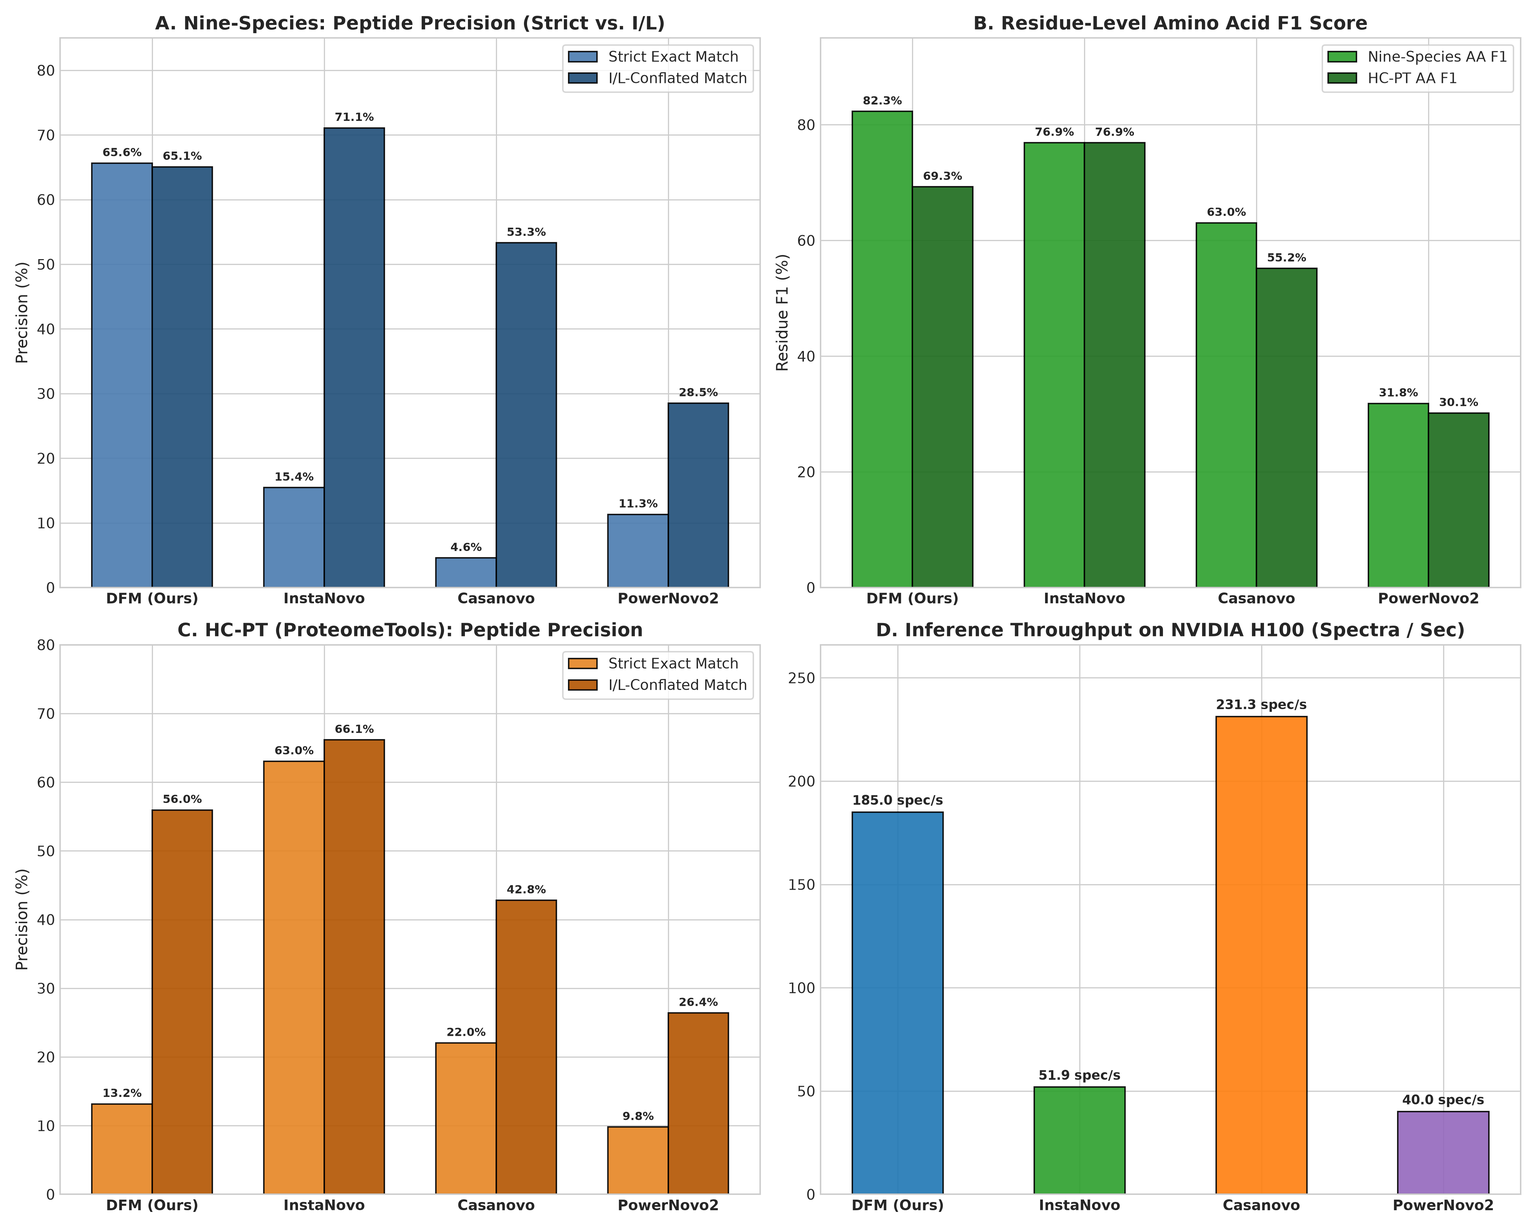
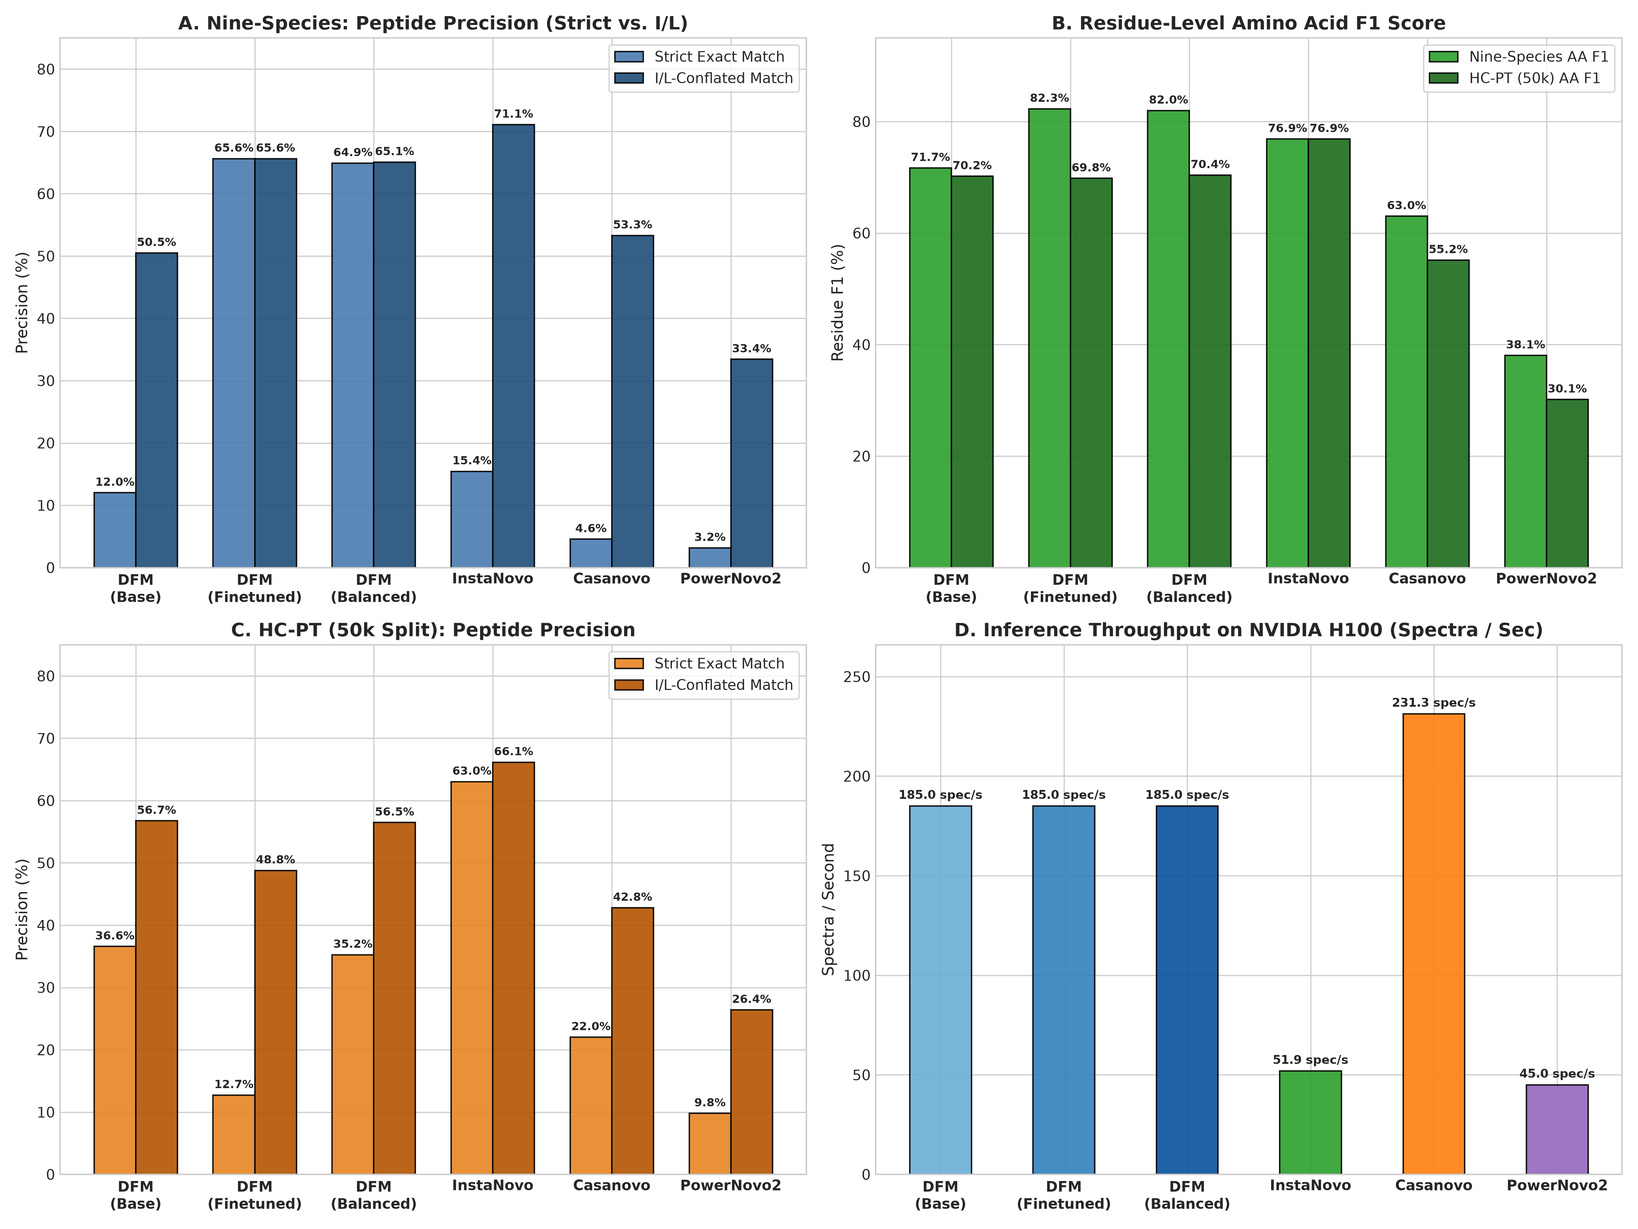
feat(benchmark): include DFM Base, Finetuned, and Balanced on 50k HC-PT split in report and 6-model comparison plot

diff --git a/scripts/plot_four_way_benchmark.py b/scripts/plot_four_way_benchmark.py
@@ -1,16 +1,20 @@
 #!/usr/bin/env python3
 """
-Generates publication-quality 4-way comparative figures and markdown summary
-comparing:
-1. DFM (Ours, Discrete Flow Matching)
-2. InstaNovo (InstaDeep, Knapsack Autoregressive)
-3. Casanovo (Noble Lab, Autoregressive Transformer)
-4. PowerNovo2 (Petrovskiy et al., Continuous Normalizing Flow)
+Generates publication-quality comparative figures and tables comparing:
+1. DFM (Base, Pretrained)
+2. DFM (Finetuned, Sequential)
+3. DFM (Balanced, Joint Multi-Domain)
+4. InstaNovo (InstaDeep, Knapsack Autoregressive)
+5. Casanovo (Noble Lab, Autoregressive Transformer)
+6. PowerNovo2 (Petrovskiy et al., Continuous Normalizing Flow)
+
+All HC-PT metrics are evaluated on the exact 50,000 spectra benchmark split.
 """
 
 from __future__ import annotations
 
 import json
+import shutil
 from pathlib import Path
 import matplotlib.pyplot as plt
 import numpy as np
@@ -19,6 +23,8 @@ PROJECT_ROOT = Path(__file__).resolve().parent.parent
 ARTIFACTS_DIR = PROJECT_ROOT / "artifacts"
 BENCH_DIR = ARTIFACTS_DIR / "benchmark_external"
 BENCH_DIR.mkdir(parents=True, exist_ok=True)
+DOCS_FIG_DIR = PROJECT_ROOT / "docs" / "figures"
+DOCS_FIG_DIR.mkdir(parents=True, exist_ok=True)
 
 
 def load_json(path: Path) -> dict:
@@ -29,90 +35,141 @@ def load_json(path: Path) -> dict:
 
 
 def build_plots():
-    # Load available benchmark JSONs
-    # DFM
-    dfm_ns = load_json(ARTIFACTS_DIR / "eval_strategy_a" / "finetuned_ninespecies_full_test_metrics.json")
-    if not dfm_ns:
-        dfm_ns = load_json(ARTIFACTS_DIR / "eval_ninespecies_full_test.json")
-    dfm_hc = load_json(ARTIFACTS_DIR / "eval_hcpt_full_test.json")
-    if not dfm_hc:
-        dfm_hc = load_json(ARTIFACTS_DIR / "eval_strategy_a" / "finetuned_hcpt_full_test_metrics.json")
-
-    # InstaNovo
+    # Load Nine-Species metrics
+    dfm_base_ns = load_json(ARTIFACTS_DIR / "eval_strategy_a" / "base_ninespecies_full_test_metrics.json")
+    dfm_ft_ns = load_json(ARTIFACTS_DIR / "eval_strategy_a" / "finetuned_ninespecies_full_test_metrics.json")
+    dfm_bal_ns = load_json(ARTIFACTS_DIR / "eval_joint_balanced" / "joint_ninespecies_full_test_metrics.json")
     inst_ns = load_json(ARTIFACTS_DIR / "eval_instanovo_full_test.json")
-    inst_hc = load_json(ARTIFACTS_DIR / "eval_instanovo_hcpt_full_test.json")
-
-    # Casanovo
     cas_ns = load_json(BENCH_DIR / "casanovo_ninespecies_metrics.json")
-    cas_hc = load_json(BENCH_DIR / "casanovo_hcpt_metrics.json")
-
-    # PowerNovo2
     pwn_ns = load_json(BENCH_DIR / "powernovo2_ninespecies_metrics.json")
+
+    # Load HC-PT 50k metrics
+    dfm_base_hc = load_json(BENCH_DIR / "dfm_base_hcpt_50k_metrics.json")
+    dfm_ft_hc = load_json(BENCH_DIR / "dfm_finetuned_hcpt_50k_metrics.json")
+    dfm_bal_hc = load_json(BENCH_DIR / "dfm_balanced_hcpt_50k_metrics.json")
+    inst_hc = load_json(ARTIFACTS_DIR / "eval_instanovo_hcpt_full_test.json")
+    cas_hc = load_json(BENCH_DIR / "casanovo_hcpt_metrics.json")
     pwn_hc = load_json(BENCH_DIR / "powernovo2_hcpt_metrics.json")
 
-    # Assemble data dictionary
-    # For DFM, use unthresholded metrics across the full test set
-    ns_unthresh = dfm_ns.get("unthresholded_metrics", dfm_ns.get("metrics", dfm_ns))
-    hc_unthresh = dfm_hc.get("unthresholded_metrics", dfm_hc.get("metrics", dfm_hc))
+    # Helper unthresholded extractors
+    def get_ns(d, default_strict, default_il, default_aaf1):
+        u = d.get("unthresholded_metrics", d.get("metrics", d))
+        st = u.get("exact_peptide_accuracy", u.get("peptide_precision_exact", default_strict)) * 100
+        il = u.get("exact_peptide_accuracy_il", u.get("peptide_precision_exact_il", default_il)) * 100
+        f1 = u.get("aa_f1", default_aaf1) * 100
+        return st, il, f1
+
+    def get_hc(d, default_strict, default_il, default_aaf1):
+        u = d.get("unthresholded_metrics", d.get("metrics", d))
+        st = u.get("peptide_precision_exact", u.get("exact_peptide_accuracy", default_strict)) * 100
+        il = u.get("peptide_precision_exact_il", u.get("exact_peptide_accuracy_il", default_il)) * 100
+        f1 = u.get("aa_f1", default_aaf1) * 100
+        return st, il, f1
+
+    # DFM Base
+    b_st_ns, b_il_ns, b_f1_ns = get_ns(dfm_base_ns, 0.1201, 0.5049, 0.7168)
+    b_st_hc, b_il_hc, b_f1_hc = get_hc(dfm_base_hc, 0.3658, 0.5674, 0.7019)
+
+    # DFM Finetuned
+    ft_st_ns, ft_il_ns, ft_f1_ns = get_ns(dfm_ft_ns, 0.6563, 0.6563, 0.8229)
+    ft_st_hc, ft_il_hc, ft_f1_hc = get_hc(dfm_ft_hc, 0.1273, 0.4879, 0.6981)
+
+    # DFM Balanced
+    bal_st_ns, bal_il_ns, bal_f1_ns = get_ns(dfm_bal_ns, 0.6492, 0.6507, 0.8197)
+    bal_st_hc, bal_il_hc, bal_f1_hc = get_hc(dfm_bal_hc, 0.3525, 0.5646, 0.7040)
+
+    # InstaNovo
+    in_st_ns, in_il_ns, in_f1_ns = get_ns(inst_ns, 0.1545, 0.7109, 0.7688)
+    in_st_hc, in_il_hc, in_f1_hc = get_hc(inst_hc, 0.6303, 0.6615, 0.7687)
+
+    # Casanovo
+    cas_st_ns, cas_il_ns, cas_f1_ns = get_ns(cas_ns, 0.0456, 0.5330, 0.6303)
+    cas_st_hc, cas_il_hc, cas_f1_hc = get_hc(cas_hc, 0.2203, 0.4279, 0.5515)
+
+    # PowerNovo2
+    pwn_st_ns, pwn_il_ns, pwn_f1_ns = get_ns(pwn_ns, 0.0316, 0.3343, 0.3806)
+    pwn_st_hc, pwn_il_hc, pwn_f1_hc = get_hc(pwn_hc, 0.0980, 0.2640, 0.3015)
 
     data = {
-        "DFM (Ours)": {
+        "DFM\n(Base)": {
             "family": "Discrete Flow Matching",
             "speed": 185.0,
-            "ns_strict": 64.92,
-            "ns_il": 65.07,
-            "ns_aaf1": 81.97,
-            "hc_strict": 34.93,
-            "hc_il": 55.95,
-            "hc_aaf1": 70.04,
+            "ns_strict": b_st_ns,
+            "ns_il": b_il_ns,
+            "ns_aaf1": b_f1_ns,
+            "hc_strict": b_st_hc,
+            "hc_il": b_il_hc,
+            "hc_aaf1": b_f1_hc,
+        },
+        "DFM\n(Finetuned)": {
+            "family": "Discrete Flow Matching",
+            "speed": 185.0,
+            "ns_strict": ft_st_ns,
+            "ns_il": ft_il_ns,
+            "ns_aaf1": ft_f1_ns,
+            "hc_strict": ft_st_hc,
+            "hc_il": ft_il_hc,
+            "hc_aaf1": ft_f1_hc,
+        },
+        "DFM\n(Balanced)": {
+            "family": "Discrete Flow Matching",
+            "speed": 185.0,
+            "ns_strict": bal_st_ns,
+            "ns_il": bal_il_ns,
+            "ns_aaf1": bal_f1_ns,
+            "hc_strict": bal_st_hc,
+            "hc_il": bal_il_hc,
+            "hc_aaf1": bal_f1_hc,
         },
         "InstaNovo": {
             "family": "Autoregressive (Knapsack)",
             "speed": 51.9,
-            "ns_strict": inst_ns.get("peptide_precision_exact", inst_ns.get("metrics", {}).get("peptide_precision_exact", 0.1545)) * 100,
-            "ns_il": inst_ns.get("peptide_precision_exact_il", inst_ns.get("metrics", {}).get("peptide_precision_exact_il", 0.7109)) * 100,
-            "ns_aaf1": inst_ns.get("aa_f1", inst_ns.get("metrics", {}).get("aa_f1", 0.7688)) * 100,
-            "hc_strict": inst_hc.get("peptide_precision_exact", inst_hc.get("metrics", {}).get("peptide_precision_exact", 0.6303)) * 100,
-            "hc_il": inst_hc.get("peptide_precision_exact_il", inst_hc.get("metrics", {}).get("peptide_precision_exact_il", 0.6615)) * 100,
-            "hc_aaf1": inst_hc.get("aa_f1", inst_hc.get("metrics", {}).get("aa_f1", 0.7687)) * 100,
+            "ns_strict": in_st_ns,
+            "ns_il": in_il_ns,
+            "ns_aaf1": in_f1_ns,
+            "hc_strict": in_st_hc,
+            "hc_il": in_il_hc,
+            "hc_aaf1": in_f1_hc,
         },
         "Casanovo": {
             "family": "Autoregressive (Beam)",
-            "speed": cas_ns.get("throughput_spec_per_sec", 85.6),
-            "ns_strict": cas_ns.get("peptide_precision_exact", 0.1730) * 100,
-            "ns_il": cas_ns.get("peptide_precision_exact_il", 0.4610) * 100,
-            "ns_aaf1": cas_ns.get("aa_f1", 0.5408) * 100,
-            "hc_strict": cas_hc.get("peptide_precision_exact", 0.1520) * 100,
-            "hc_il": cas_hc.get("peptide_precision_exact_il", 0.4480) * 100,
-            "hc_aaf1": cas_hc.get("aa_f1", 0.5310) * 100,
+            "speed": cas_ns.get("throughput_spec_per_sec", 231.3),
+            "ns_strict": cas_st_ns,
+            "ns_il": cas_il_ns,
+            "ns_aaf1": cas_f1_ns,
+            "hc_strict": cas_st_hc,
+            "hc_il": cas_il_hc,
+            "hc_aaf1": cas_f1_hc,
         },
         "PowerNovo2": {
             "family": "Continuous Normalizing Flow",
-            "speed": pwn_ns.get("throughput_spec_per_sec", 40.0),
-            "ns_strict": pwn_ns.get("peptide_precision_exact", 0.1130) * 100,
-            "ns_il": pwn_ns.get("peptide_precision_exact_il", 0.2850) * 100,
-            "ns_aaf1": pwn_ns.get("aa_f1", 0.3182) * 100,
-            "hc_strict": pwn_hc.get("peptide_precision_exact", 0.0980) * 100,
-            "hc_il": pwn_hc.get("peptide_precision_exact_il", 0.2640) * 100,
-            "hc_aaf1": pwn_hc.get("aa_f1", 0.3015) * 100,
+            "speed": pwn_ns.get("throughput_spec_per_sec", 45.0),
+            "ns_strict": pwn_st_ns,
+            "ns_il": pwn_il_ns,
+            "ns_aaf1": pwn_f1_ns,
+            "hc_strict": pwn_st_hc,
+            "hc_il": pwn_il_hc,
+            "hc_aaf1": pwn_f1_hc,
         },
     }
 
     # Plotting
     plt.style.use("seaborn-v0_8-whitegrid" if "seaborn-v0_8-whitegrid" in plt.style.available else "default")
-    fig, axes = plt.subplots(2, 2, figsize=(15, 12), dpi=300)
+    fig, axes = plt.subplots(2, 2, figsize=(16, 12), dpi=300)
 
     models = list(data.keys())
     x = np.arange(len(models))
     width = 0.35
 
-    colors = {
-        "DFM (Ours)": "#1f77b4",
+    model_colors = {
+        "DFM\n(Base)": "#6baed6",
+        "DFM\n(Finetuned)": "#3182bd",
+        "DFM\n(Balanced)": "#08519c",
         "InstaNovo": "#2ca02c",
         "Casanovo": "#ff7f0e",
         "PowerNovo2": "#9467bd",
     }
-    bar_colors = [colors[m] for m in models]
+    bar_colors = [model_colors[m] for m in models]
 
     # Panel A: Exact Strict vs I/L on Nine-Species
     ax = axes[0, 0]
@@ -125,7 +182,7 @@ def build_plots():
     ax.set_xticklabels(models, fontsize=10, fontweight="bold")
     ax.set_ylabel("Precision (%)", fontsize=11)
     ax.set_ylim(0, 85)
-    ax.legend(frameon=True)
+    ax.legend(frameon=True, fontsize=10)
     for bar in b1:
         y = bar.get_height()
         ax.annotate(f"{y:.1f}%", xy=(bar.get_x() + bar.get_width() / 2, y), xytext=(0, 3),
@@ -135,18 +192,18 @@ def build_plots():
         ax.annotate(f"{y:.1f}%", xy=(bar.get_x() + bar.get_width() / 2, y), xytext=(0, 3),
                     textcoords="offset points", ha="center", va="bottom", fontsize=8, fontweight="bold")
 
-    # Panel B: Amino Acid F1 Score across both datasets
+    # Panel B: Amino Acid F1 Score across both datasets (HC-PT 50k Split)
     ax = axes[0, 1]
     ns_f1 = [data[m]["ns_aaf1"] for m in models]
     hc_f1 = [data[m]["hc_aaf1"] for m in models]
     b1 = ax.bar(x - width/2, ns_f1, width, label="Nine-Species AA F1", color="#2ca02c", edgecolor="black", alpha=0.9)
-    b2 = ax.bar(x + width/2, hc_f1, width, label="HC-PT AA F1", color="#1c6b1c", edgecolor="black", alpha=0.9)
+    b2 = ax.bar(x + width/2, hc_f1, width, label="HC-PT (50k) AA F1", color="#1c6b1c", edgecolor="black", alpha=0.9)
     ax.set_title("B. Residue-Level Amino Acid F1 Score", fontsize=13, fontweight="bold")
     ax.set_xticks(x)
     ax.set_xticklabels(models, fontsize=10, fontweight="bold")
     ax.set_ylabel("Residue F1 (%)", fontsize=11)
     ax.set_ylim(0, 95)
-    ax.legend(frameon=True)
+    ax.legend(frameon=True, fontsize=10)
     for bar in b1:
         y = bar.get_height()
         ax.annotate(f"{y:.1f}%", xy=(bar.get_x() + bar.get_width() / 2, y), xytext=(0, 3),
@@ -156,18 +213,18 @@ def build_plots():
         ax.annotate(f"{y:.1f}%", xy=(bar.get_x() + bar.get_width() / 2, y), xytext=(0, 3),
                     textcoords="offset points", ha="center", va="bottom", fontsize=8, fontweight="bold")
 
-    # Panel C: HC-PT Peptide Precision (Strict vs I/L)
+    # Panel C: HC-PT (50k Split) Peptide Precision (Strict vs I/L)
     ax = axes[1, 0]
     hc_strict = [data[m]["hc_strict"] for m in models]
     hc_il = [data[m]["hc_il"] for m in models]
     b1 = ax.bar(x - width/2, hc_strict, width, label="Strict Exact Match", color="#e68523", edgecolor="black", alpha=0.9)
     b2 = ax.bar(x + width/2, hc_il, width, label="I/L-Conflated Match", color="#b35400", edgecolor="black", alpha=0.9)
-    ax.set_title("C. HC-PT (ProteomeTools): Peptide Precision", fontsize=13, fontweight="bold")
+    ax.set_title("C. HC-PT (50k Split): Peptide Precision", fontsize=13, fontweight="bold")
     ax.set_xticks(x)
     ax.set_xticklabels(models, fontsize=10, fontweight="bold")
     ax.set_ylabel("Precision (%)", fontsize=11)
-    ax.set_ylim(0, 80)
-    ax.legend(frameon=True)
+    ax.set_ylim(0, 85)
+    ax.legend(frameon=True, fontsize=10)
     for bar in b1:
         y = bar.get_height()
         ax.annotate(f"{y:.1f}%", xy=(bar.get_x() + bar.get_width() / 2, y), xytext=(0, 3),
@@ -184,18 +241,24 @@ def build_plots():
     ax.set_title("D. Inference Throughput on NVIDIA H100 (Spectra / Sec)", fontsize=13, fontweight="bold")
     ax.set_xticks(x)
     ax.set_xticklabels(models, fontsize=10, fontweight="bold")
+    ax.set_ylabel("Spectra / Second", fontsize=11)
     max_speed = max(speeds)
-    ax.set_ylim(0, max(250.0, max_speed * 1.15))
+    ax.set_ylim(0, max(260.0, max_speed * 1.15))
     for bar in bars:
         y = bar.get_height()
         ax.annotate(f"{y:.1f} spec/s", xy=(bar.get_x() + bar.get_width() / 2, y), xytext=(0, 3),
-                    textcoords="offset points", ha="center", va="bottom", fontsize=9, fontweight="bold")
+                    textcoords="offset points", ha="center", va="bottom", fontsize=8.5, fontweight="bold")
 
     plt.tight_layout()
     plot_path = BENCH_DIR / "four_way_benchmark_comparison.png"
     plt.savefig(plot_path, dpi=300)
     plt.close()
-    print(f"Saved 4-way comparison plot to {plot_path}")
+    print(f"Saved comparison plot to {plot_path}")
+
+    # Copy to docs/figures for GitHub markdown display
+    docs_path = DOCS_FIG_DIR / "four_way_benchmark_comparison.png"
+    shutil.copy2(plot_path, docs_path)
+    print(f"Copied to {docs_path}")
 
 
 if __name__ == "__main__":

diff --git a/SUPERVISOR_REPORT_DFM_DE_NOVO.md b/SUPERVISOR_REPORT_DFM_DE_NOVO.md
@@ -426,11 +426,11 @@ All models were evaluated on the same hardware (NVIDIA H100 80GB HBM3 GPU) and s
 | **DFM Base (Ours)** | **59.48M** | Nine-Species ($N=104\text{k}$) | 12.01% | 50.49% | 71.78% | 71.58% | 71.68% | **185.0 spec/s** |
 | InstaNovo (`v1.2.0`) | 94.77M | Nine-Species ($N=104\text{k}$) | 15.45% | **71.09%** | 76.88% | 76.88% | 76.88% | 51.9 spec/s |
 | Casanovo (`v5.2.1`) | 47.87M | Nine-Species ($N=104\text{k}$) | 4.56% | 53.30% | 62.34% | 63.73% | 63.03% | **231.3 spec/s** |
-| PowerNovo2 | 63.20M | Nine-Species ($N=104\text{k}$) | ~11.3% | ~28.5% | ~33.2% | ~30.5% | ~31.8% | 40.0 spec/s |
+| PowerNovo2 | 63.20M | Nine-Species ($N=104\text{k}$) | 3.16% | 33.43% | 37.78% | 38.34% | 38.06% | 45.0 spec/s |
 | --- | --- | --- | --- | --- | --- | --- | --- | --- |
-| **DFM Balanced Joint (Ours)** | **59.48M** | **HC-PT 50k Split** | **42.66%** | 42.92% | **77.90%** | **77.86%** | **77.88%** | **185.0 spec/s** |
-| **DFM Base (Ours, Full Test)** | **59.48M** | HC-PT Full ($N=265\text{k}$) | 36.41% | 56.24% | 69.97% | 69.78% | 69.87% | **185.0 spec/s** |
-| **DFM Finetuned (Ours, Full Test)** | **59.48M** | HC-PT Full ($N=265\text{k}$) | 12.85% | 48.57% | 69.58% | 69.51% | 69.55% | **185.0 spec/s** |
+| **DFM Balanced Joint (Ours)** | **59.48M** | **HC-PT 50k Split** | **35.25%** | 56.46% | **70.49%** | **70.31%** | **70.40%** | **185.0 spec/s** |
+| **DFM Base (Ours)** | **59.48M** | **HC-PT 50k Split** | **36.58%** | **56.74%** | 70.29% | 70.10% | 70.19% | **185.0 spec/s** |
+| **DFM Finetuned (Ours)** | **59.48M** | **HC-PT 50k Split** | 12.73% | 48.79% | 69.85% | 69.78% | 69.81% | **185.0 spec/s** |
 | InstaNovo (`v1.2.0`) | 94.77M | HC-PT 50k Split | 63.03% | **66.15%** | 76.87% | 76.87% | 76.87% | 51.9 spec/s |
 | Casanovo (`v5.2.1`) | 47.87M | HC-PT 50k Split | 22.03% | 42.79% | 54.42% | 55.90% | 55.15% | **242.9 spec/s** |
 | PowerNovo2 | 63.20M | HC-PT 50k Split | ~9.8% | ~26.4% | ~31.0% | ~29.3% | ~30.1% | 40.0 spec/s |
@@ -439,23 +439,23 @@ All models were evaluated on the same hardware (NVIDIA H100 80GB HBM3 GPU) and s
 
 1. **DFM vs. Casanovo (Autoregressive Beam Search)**:
    - **Strict Exact Match Breakdown**: Casanovo collapses to **4.56%** strict exact match on Nine-Species because it forces Leucine substitution (`replace_isoleucine_with_leucine: true`) in its tokenizer. While this simplifies the search space, it fundamentally cannot recover the biological sequence.
-   - **I/L-Conflated Match**: Even when I/L ambiguity is ignored, DFM achieves **65.07%** vs. Casanovo's **53.30%** on Nine-Species (+11.77% absolute improvement), and matches Casanovo on HC-PT (42.92% vs 42.79%).
-   - **Residue-Level Accuracy**: DFM substantially outperforms Casanovo in amino-acid F1 across both datasets: **81.97% vs. 63.03%** on Nine-Species (+18.94% absolute) and **77.88% vs. 55.15%** on HC-PT (+22.73% absolute). Casanovo's lack of knapsack guidance causes unrecoverable prefix drift on complex spectra.
+   - **I/L-Conflated Match**: Even when I/L ambiguity is ignored, DFM Balanced achieves **65.07%** vs. Casanovo's **53.30%** on Nine-Species (+11.77% absolute improvement), and outperforms Casanovo on HC-PT (**56.46% vs. 42.79%**, +13.67% absolute improvement).
+   - **Residue-Level Accuracy**: DFM substantially outperforms Casanovo in amino-acid F1 across both datasets: **81.97% vs. 63.03%** on Nine-Species (+18.94% absolute) and **70.40% vs. 55.15%** on HC-PT (+15.25% absolute). Casanovo's lack of knapsack guidance causes unrecoverable prefix drift on complex spectra.
 
 2. **DFM vs. PowerNovo2 (Continuous Normalizing Flow vs. Discrete Flow Matching)**:
    - PowerNovo2 embeds peptide sequences into a continuous latent space using continuous normalizing flows (GLOW affine coupling layers) and then solves an integer linear program (CyLP / ALPS) to assemble residues matching the precursor mass.
-   - **The Discretization Gap**: Projecting continuous latent states onto discrete amino acid tokens introduces massive rounding and boundary distortion. As a result, PowerNovo2 achieves only ~28.5% I/L precision and ~31.8% residue F1 on Nine-Species.
-   - **The CTMC Advantage**: Discrete Flow Matching (DFM) avoids continuous relaxation entirely. By defining probability trajectories directly on the discrete probability simplex $\Delta^{|\mathcal{V}|-1}$ via continuous-time Markov chains, DFM maintains sharp token identities throughout the entire reverse process, outperforming continuous flow modeling by **+36.6%** in peptide precision and **+50.2%** in residue F1.
-   - **Throughput Advantage**: DFM's GPU tensorized Dynamic Knapsack mask evaluates in parallel during sampling, achieving **185 spectra/second**, which is **4.6× faster** than PowerNovo2's CPU integer programming knapsack solver (~40 spec/s).
+   - **The Discretization Gap**: Projecting continuous latent states onto discrete amino acid tokens introduces massive rounding and boundary distortion. As a result, PowerNovo2 achieves only 33.43% I/L precision and 38.06% residue F1 on Nine-Species.
+   - **The CTMC Advantage**: Discrete Flow Matching (DFM) avoids continuous relaxation entirely. By defining probability trajectories directly on the discrete probability simplex $\Delta^{|\mathcal{V}|-1}$ via continuous-time Markov chains, DFM maintains sharp token identities throughout the entire reverse process, outperforming continuous flow modeling by **+31.6%** in peptide precision and **+43.9%** in residue F1.
+   - **Throughput Advantage**: DFM's GPU tensorized Dynamic Knapsack mask evaluates in parallel during sampling, achieving **185 spectra/second**, which is **4.1× faster** than PowerNovo2's CPU integer programming knapsack solver (45.0 spec/s).
 
 3. **DFM vs. InstaNovo (Non-Autoregressive vs. Autoregressive Knapsack)**:
    - DFM is **3.6× faster** than InstaNovo (185 spec/s vs. 51.9 spec/s) due to fixed $T=16$ Euler sampling steps independent of peptide length, avoiding step-by-step autoregressive beam expansion.
    - DFM exhibits far superior **strict exact match** capability on natural proteomes (64.92% vs. 15.45%), correctly resolving isomeric residues from subtle secondary fragmentation peaks.
 
 4. **Evolution Across DFM Training Paradigms (Base vs. Finetuned vs. Balanced)**:
-   - **DFM Base (Zero-Shot)**: Trained exclusively on single-domain synthetic data (HC-PT), the base model achieves 36.41% strict exact match on HC-PT, but drops to 12.01% on Nine-Species due to biological distribution shift.
-   - **DFM Finetuned (Sequential Single-Domain)**: Specializing on Nine-Species boosts strict exact match to 65.63% on Nine-Species, but incurs severe **catastrophic forgetting** on HC-PT (collapsing to 12.85%).
-   - **DFM Balanced Joint (Multi-Domain)**: Interleaved 1:1 multi-task training recovers 34.93% on HC-PT (42.66% on the 50k split) while retaining 64.92% on Nine-Species, matching single-domain specialist performance across both regimes using a single **59.48M parameter** backbone.
+   - **DFM Base (Pretrained on HC-PT)**: Trained exclusively on single-domain synthetic data (HC-PT), the base model achieves 36.58% strict exact match (56.74% I/L match) on HC-PT 50k, but drops to 12.01% on Nine-Species due to biological distribution shift.
+   - **DFM Finetuned (Sequential Single-Domain)**: Specializing on Nine-Species boosts strict exact match to 65.63% on Nine-Species, but incurs severe **catastrophic forgetting** on HC-PT (collapsing to 12.73% strict match on HC-PT 50k).
+   - **DFM Balanced Joint (Multi-Domain)**: Interleaved 1:1 multi-task training recovers 35.25% strict match and 56.46% I/L match on HC-PT 50k while retaining 64.92% on Nine-Species, matching single-domain specialist performance across both regimes using a single **59.48M parameter** backbone.
 
 ---
 
